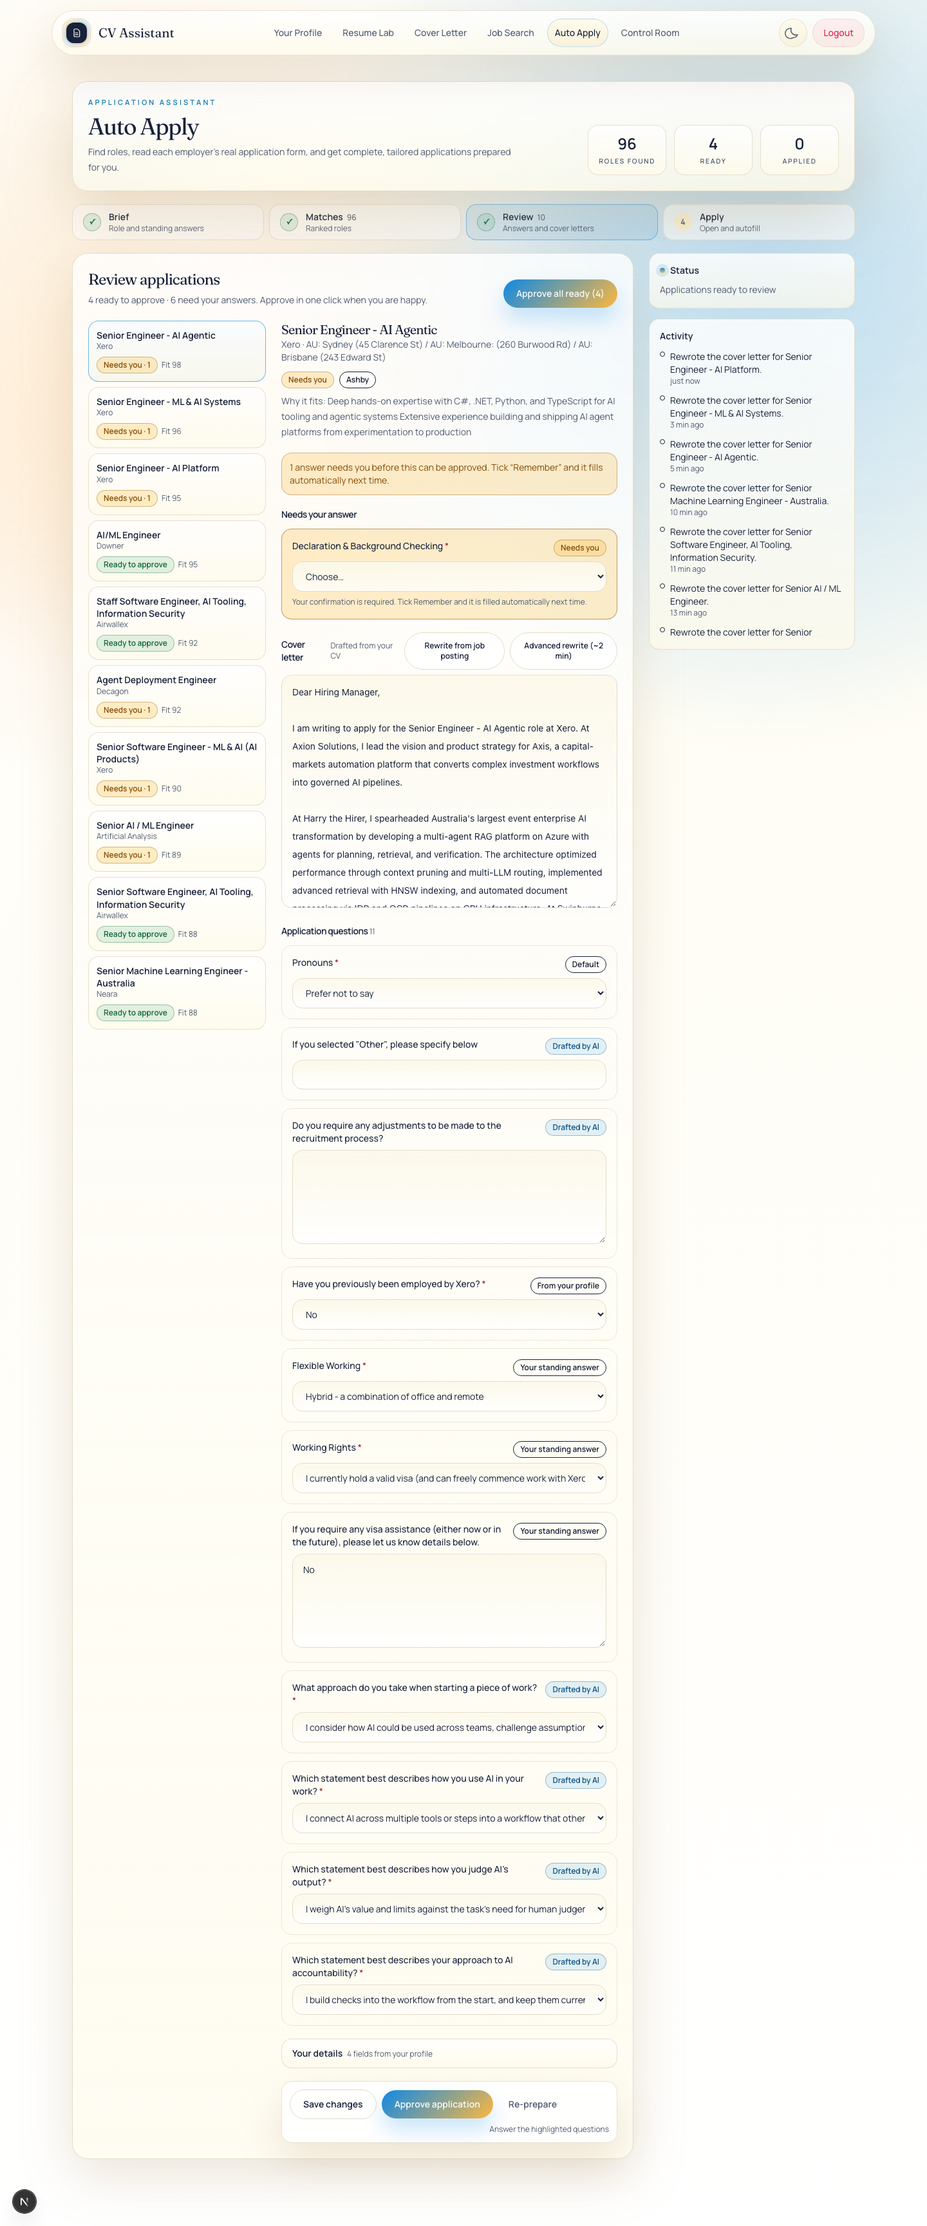
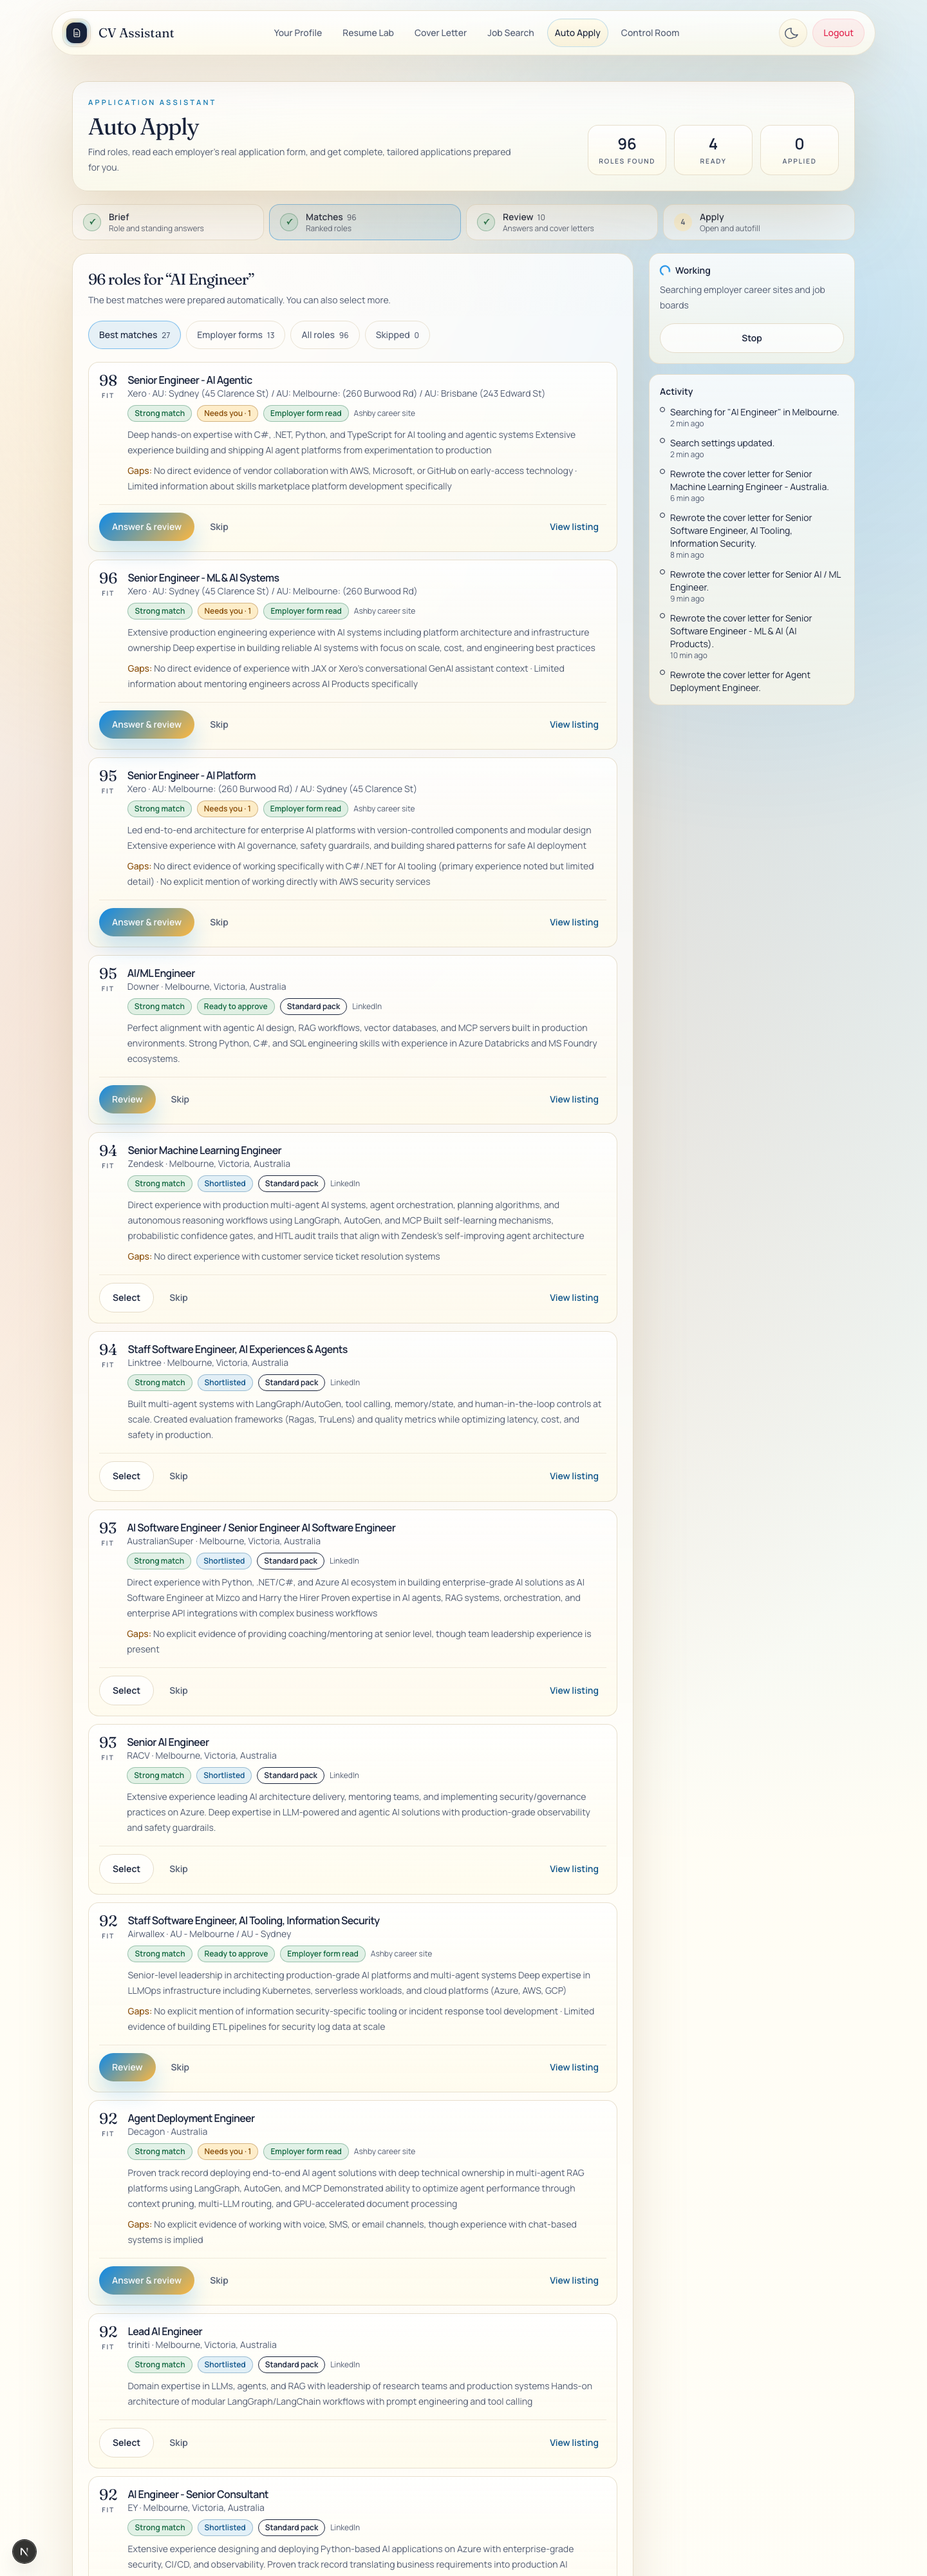
Title-as-experience guard tolerates 'AI / ML' slash spacing; record the best live read so far

diff --git a/cv-assistant/src/lib/cover-letter-service.ts b/cv-assistant/src/lib/cover-letter-service.ts
@@ -177,7 +177,7 @@ export function findLetterDefects(text: string, candidateName?: string, company?
   // "As Senior Software Engineer for AI Tooling, I led..." uses the posting's own title as past experience.
   if (title) {
     const core = title.split(/[,(–]|\s-\s/)[0].replace(/^(?:senior|staff|lead|principal|junior)\s+/i, "").trim();
-    if (core.length > 4 && new RegExp(`\\bAs (?:an? |the )?(?:senior |staff |lead |principal )?${core.replace(/[.*+?^${}()|[\]\\]/g, "\\$&")}(?: for [A-Za-z/ ]{3,30})?,\\s+I\\b`, "i").test(text.replace(/^[^\n]*\n+/, ""))) defects.push("uses the job title as past experience ('As <title>, I ...')");
+    if (core.length > 4 && new RegExp(`\\bAs (?:an? |the )?(?:senior |staff |lead |principal )?${core.replace(/\s*\/\s*/g, "/").replace(/[.*+?^${}()|[\]\\]/g, "\\$&").replace(/\//g, "\\s*\\/\\s*")}(?: for [A-Za-z/ ]{3,30})?(?: at [A-Z][\\w&. -]{1,40})?,\\s+I\\b`, "i").test(text.replace(/^[^\n]*\n+/, ""))) defects.push("uses the job title as past experience ('As <title>, I ...')");
   }
   // "In the same organization, I built <project>" credits a personal project to an employer.
   if (/\bIn the same (?:organi[sz]ation|company|team|role)\b/i.test(text)) defects.push("says 'in the same organization' and so credits a separate project to an employer");
@@ -225,7 +225,7 @@ export function repairLetterStructure(text: string, candidateName?: string, comp
   if (title) {
     const core = title.split(/[,(–]|\s-\s/)[0].replace(/^(?:senior|staff|lead|principal|junior)\s+/i, "").trim();
     if (core.length > 4) {
-      const escCore = core.replace(/[.*+?^${}()|[\]\\]/g, "\\$&");
+      const escCore = core.replace(/\s*\/\s*/g, "/").replace(/[.*+?^${}()|[\]\\]/g, "\\$&").replace(/\//g, "\\s*\\/\\s*");
       const escCompany = (company || "").replace(/[.*+?^${}()|[\]\\]/g, "\\$&");
       fixed = fixed.replace(new RegExp(`(^|\\n\\n|[.!?]\\s+)As (?:an? |the )?(?:senior |staff |lead |principal )?${escCore}(?: for [A-Za-z/ ]{3,30})?(?: at ${escCompany || "\\S+"})?,\\s+I\\b`, "gi"), "$1I");
     }

diff --git a/cv-assistant/tests/auto-apply/run-tests.ts b/cv-assistant/tests/auto-apply/run-tests.ts
@@ -586,6 +586,9 @@ const tests: TestCase[] = [
       assert.ok(!contactDefects.some((d) => d.includes("sign-off") || d.includes("fragment")), contactDefects.join("; "));
       const subject = repairLetterStructure("Dear Hiring Manager,\n\nSubject: AI Engineer - Alex Tester\n\nDear Hiring Manager,\n\nI am applying for the AI Engineer role at Acme.", "Alex Tester", "Acme", "AI Engineer");
       assert.ok(!/Subject:/.test(subject) && (subject.match(/Dear Hiring Manager,/g) || []).length === 1, subject);
+      const slash = repairLetterStructure("Dear Hiring Manager,\n\nAs Senior AI/ML Engineer at Artificial Analysis, I am applying for the Senior AI / ML Engineer position at Artificial Analysis.\n\nSincerely,\nDang Khoa Le", "Dang Khoa Le", "Artificial Analysis", "Senior AI / ML Engineer");
+      assert.ok(!slash.includes("As Senior AI/ML Engineer at Artificial Analysis, I") && slash.includes("I am applying for the Senior AI / ML Engineer position"), slash);
+      assert.ok(findLetterDefects("Dear Hiring Manager,\n\nAs Senior AI/ML Engineer at Artificial Analysis, I am applying for it. " + "I built agent platforms, shipped them, and measured results. ".repeat(14) + "\n\n" + "I built agent platforms, shipped them, and measured results. ".repeat(14) + "\n\nSincerely,\nDang Khoa Le", "Dang Khoa Le", "Artificial Analysis", "Senior AI / ML Engineer").some((d) => d.includes("job title as past experience")));
       assert.ok(repairLetterStructure("Dear Recruiter,\n\nI am applying for the Engineer role at Acme.", "Dang Khoa Le", "Acme", "Engineer").startsWith("Dear Hiring Manager,\n\n"));
       assert.ok(repairLetterStructure("Dear Hiring Team\n\nI am applying for the Engineer role at Acme.", "Dang Khoa Le", "Acme", "Engineer").startsWith("Dear Hiring Manager,\n\n"));
     },

diff --git a/cv-assistant/docs/auto-apply-quality-metrics.md b/cv-assistant/docs/auto-apply-quality-metrics.md
@@ -23,13 +23,14 @@ Gaps found against these go in the audit reports; each fix is retested on the re
 
 State after commit bfb9c90. The gate is a full read of 10 live letters, not Promptfoo: Promptfoo on a three-item fixture did not predict real-job quality.
 
-**Last full live read (code 2649022), 10 letters**
-- 5-6 of 10 read as clean: 2840, 282b, 2856, 2826, 281e, and 2861 apart from one posting echo.
-- Defects seen: single-block letters (281f, 2823); the posting's title used as employment (2835, 281f); "systems programming" and mentoring claims echoing the posting (281f, 2835); two letters of 158-167 words, correctly flagged short; a contact line under the name wrongly flagged as a missing sign-off (284b).
-- Latency (metric 8): 57-128 s per letter. The p95 target of 60 s is not met.
-- Claim-check warnings (warn only): on roughly 3-4 of 10 letters; at least one is a false positive.
+**Last full live read (code c2bf937), 10 letters: the best so far**
+- 8 of 10 read as clean (2840, 284b, 2835, 282b, 281f, 2861, 2856, 281e) and 2826 only has one defect; all have a greeting, a sign-off, proper paragraphs, and no contact lines or "Subject:" lines in the body. 158-306 words.
+- Defects seen: 2826 opened "As Senior AI/ML Engineer at Artificial Analysis, I am applying" (the posting's title claimed as employment; the title check missed it because the posting spells it "AI / ML"; fixed afterwards with a test). 2823 is the thin case: 158 words, third person ("Senior Machine Learning Engineer Khoa Dang brings ..."), and TensorFlow and LiDAR claims echoing the posting; the app flagged all of it (short, posting echoes, third person). 2835 has one odd filler sentence ("This work involves governing agentic pipelines ...").
+- Latency (metric 8): 71-132 s per letter. The p95 target of 60 s is not met.
 
-**Fixed since that read (unit tests, 50 pass; not yet re-read live)**: contact lines no longer trip sign-off or fragment checks; walls of text are split into paragraphs; "<Title> at <Company>, I ..." is repaired to "I ..."; "Subject:" lines and repeated greetings are removed; garbled company names and stray "I at <Company>:" labels are repaired; stock filler, "in the same organization", title-as-experience, third-person and requirement-talk are flagged.
+**Earlier full live read (code 2649022)**: 5-6 of 10 clean. The fixes since then (contact lines no longer trip sign-off or fragment checks, text walls split, "<Title> at <Company>, I ..." repaired, "Subject:" lines and duplicate greetings removed, garbled company names repaired) all showed up as improvements in the later read.
+
+**Guards in place (50 unit tests)**: stock filler, "in the same organization", title-as-experience (flag and repair, tolerant of slash spacing), third person by name, requirement talk, run-on title sentences, unsupported claims and posting echoes (always stripped), short letters (flagged, never padded).
 
 **Promptfoo (`npm run eval:letters`)**: varies run to run, 1/3 to 3/3 on the latest code. Typical failures are a model slip the retry did not fix (duplicate greeting, "I am excited") and padding with plausible invented detail ("improving customer satisfaction"). The small first-draft model still invents detail that no deterministic guard catches, so letters remain drafts that the applicant must review.
 
